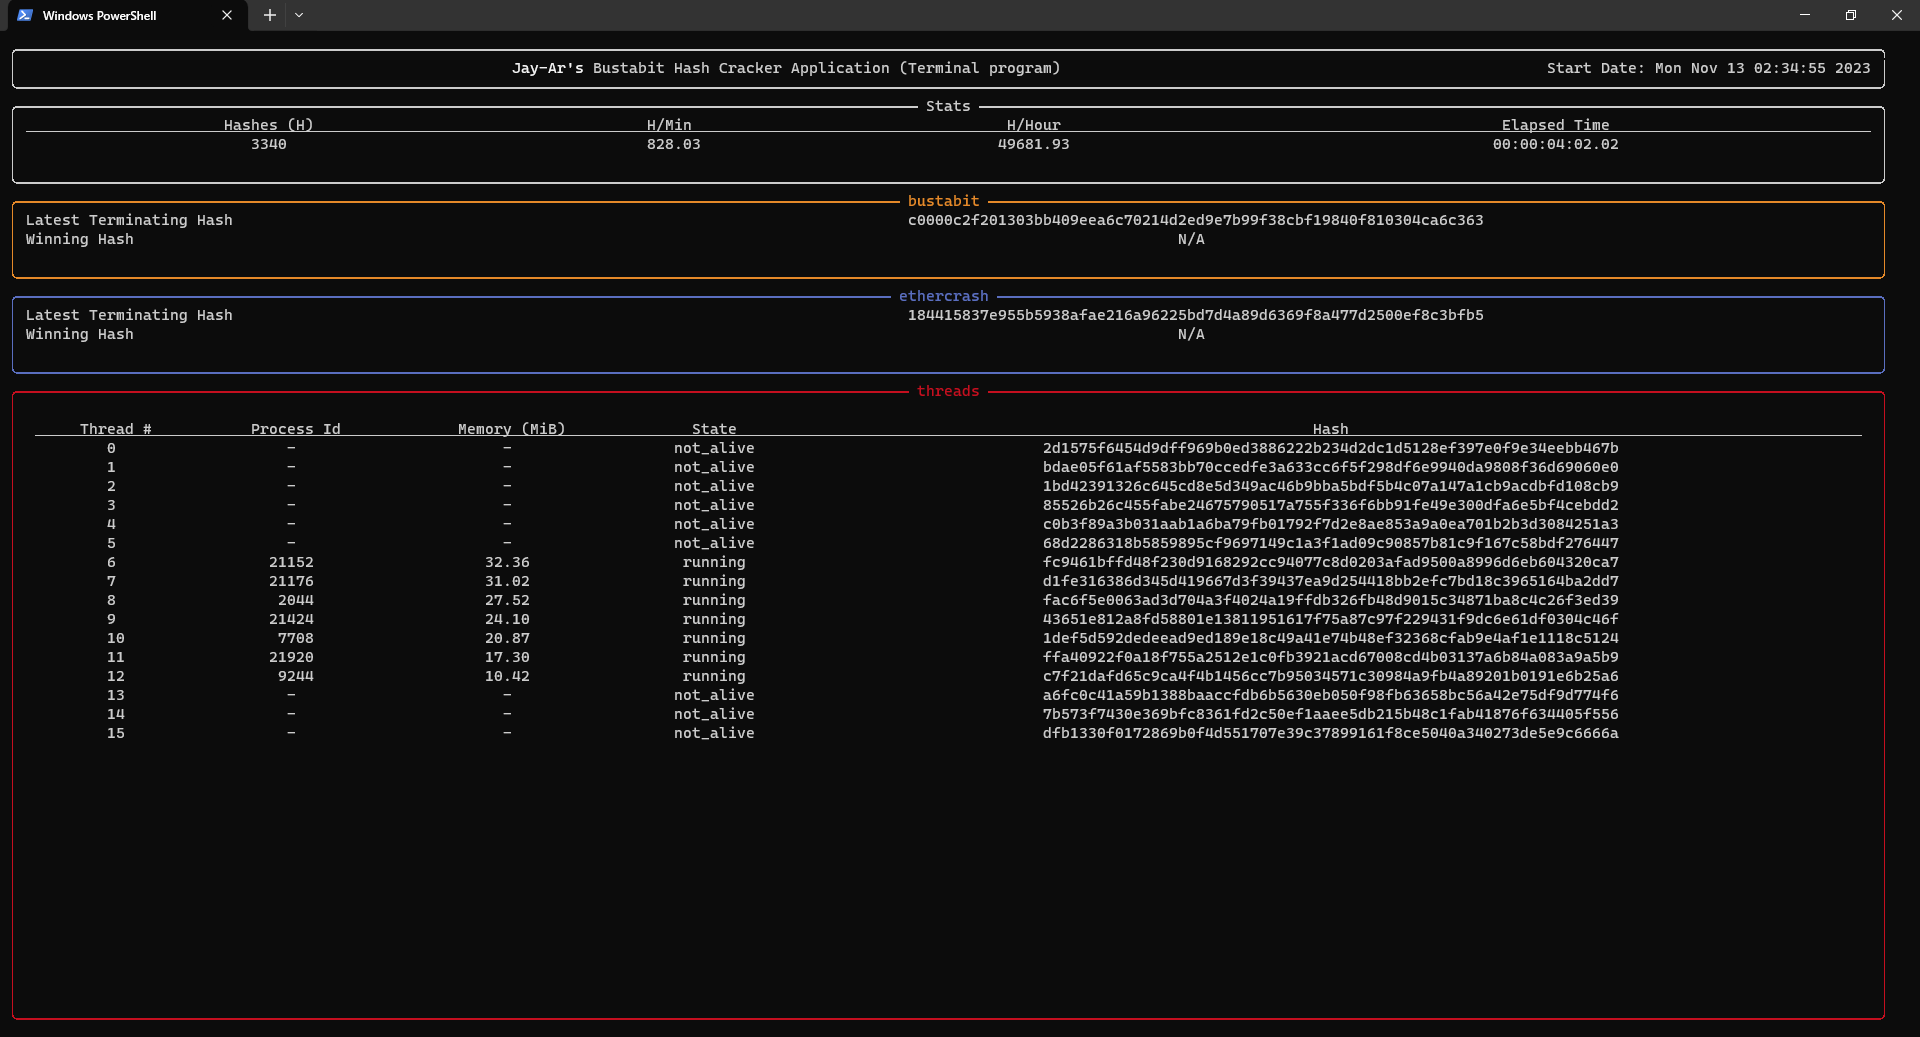
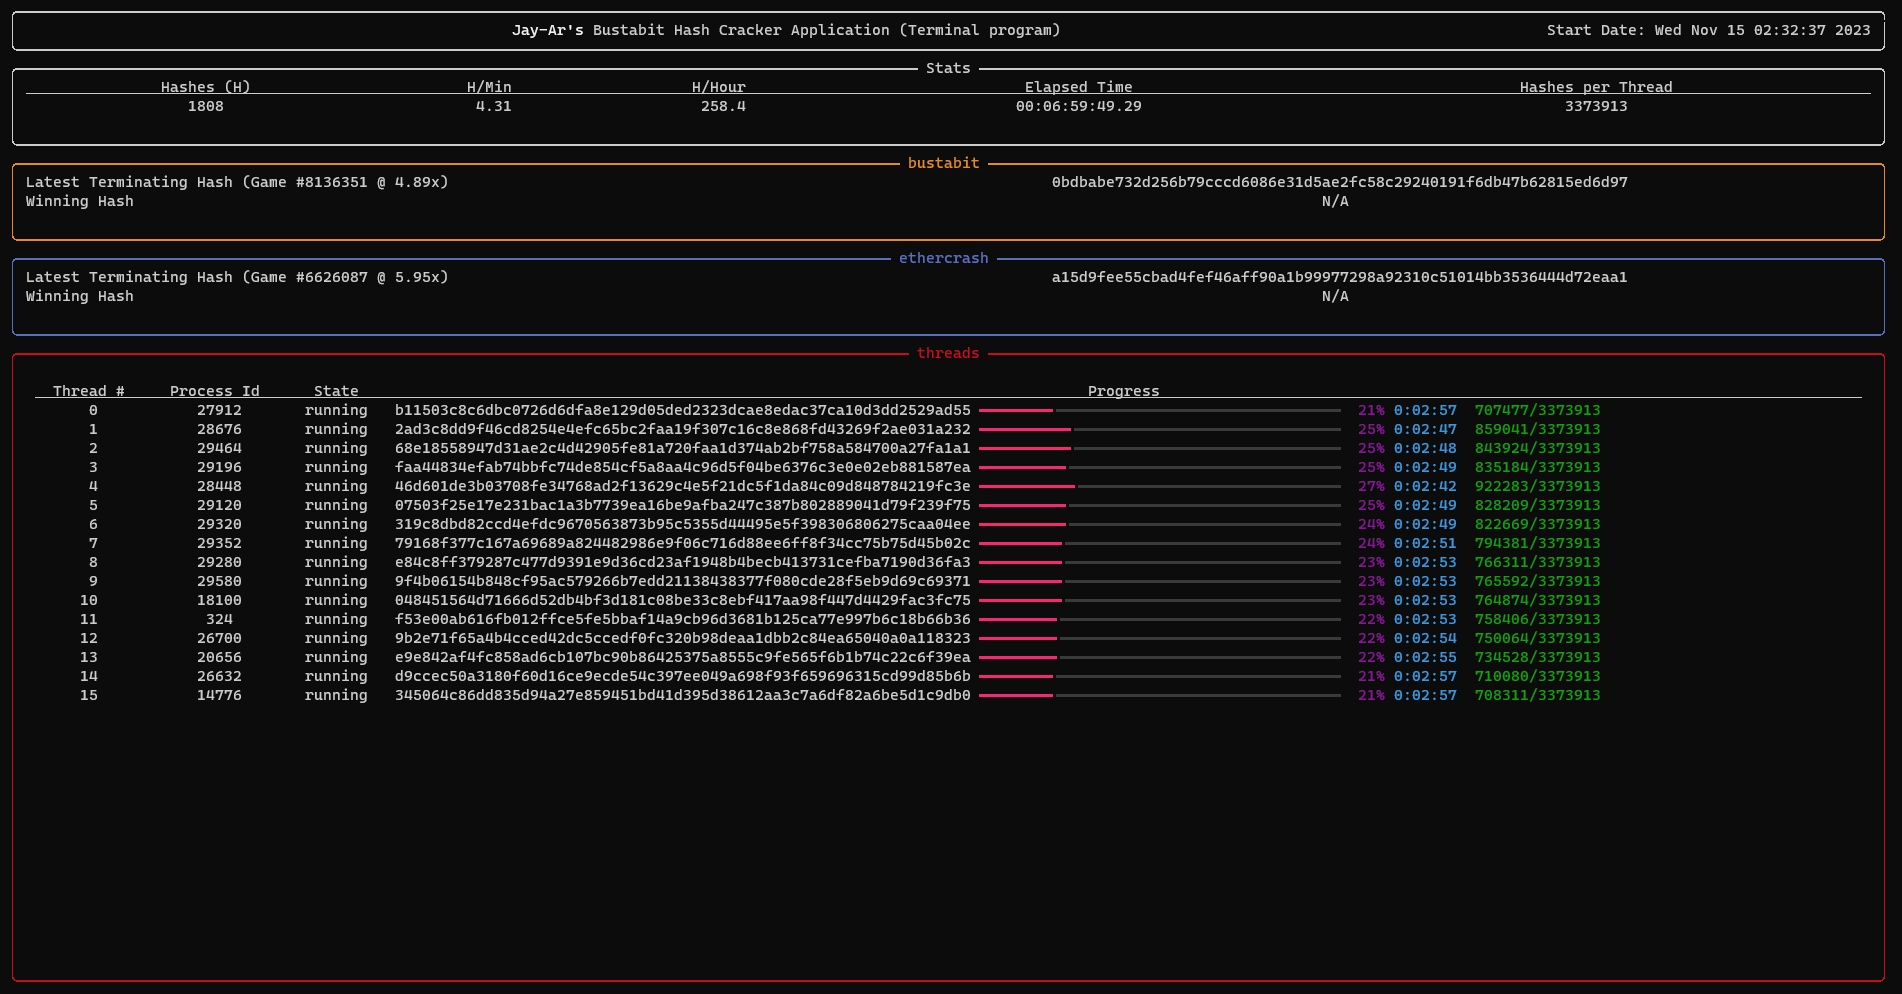
update readme and screenshot

diff --git a/README.md b/README.md
@@ -11,13 +11,14 @@ Hashes (H) - The number of hashes checked by this program. Keep in mind this is 
 H/Min - The number of hashes (H) / total number of minutes that have passed since the program started
 H/Hour - The number of hashes (H) / total number of hours that have passed since the program started
 Elapsed Time - Amount of time that has passed since the program started. Displayed in format days:hours:minutes:seconds:milliseconds
+Hashes per Thread - The number of time a each thread will hash against this self. This number will decrease as games are completed.
 Latest Terminating Hash - For a given casino (i.e bustabit), the latest SHA256 hash that was pulled. This application will periodically update this value.  
 Winning Hash - if this value is not N/A, then you won. You can use this hash to find the result of all games that came before it. See the open-source [verification tool](https://jsfiddle.net/Dexon95/2fmuxLza/show).  
 Threads (Section) - shows the randomly generated hash each thread is currently checking. There will be a thread per CPU Core available on your system. Thus, more threads and/or more powerful CPU cores will result in more hashes per hour checked.  
 
 ## Share Your Results!
 I'm interested to know what kind of speeds your systems achieving in terms of hashes per hour.  
-With my Intel(R) Core(TM) i7-10700K CPU @ 3.80GHz I am able to get around 53k H/Hour
+With my Intel(R) Core(TM) i7-10700K CPU @ 3.80GHz I am able to get around 257 H/Hour at 3.3 million Hashes per Thread.
 
 ## Compatibility
 Works with Linux, OSX, and Windows. Requires Python 3.7 or later.
@@ -40,9 +41,9 @@ Fixed using: python3 -m pip install webdriver-manager --upgrade
 
 
 ## Run it
-Run the main python file.
+Run the top level python file.
 ```sh
-py sha256.py
+py run.py
 ```
 
 ## Donations
